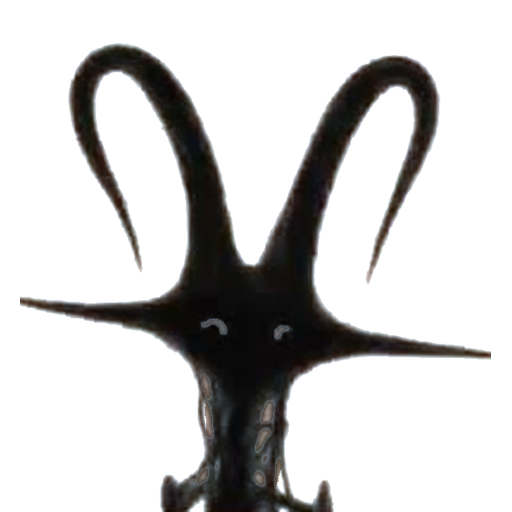
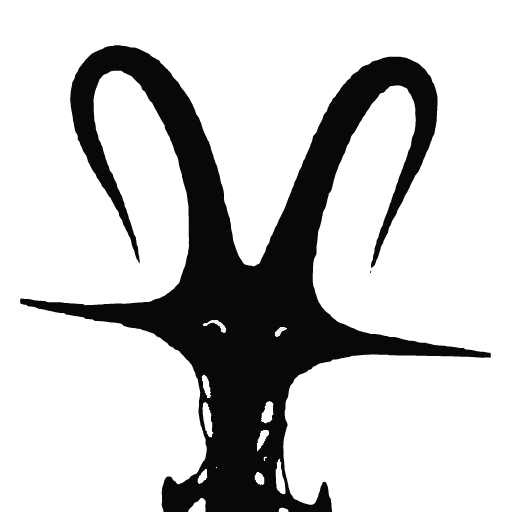
Despair sprite (U67wZoy-1fE): crisp re-trace of the video silhouette (was a soft 3x upscale), tools/art_s5_despair.py

diff --git a/tools/art_s5_despair.py b/tools/art_s5_despair.py
@@ -1,0 +1,41 @@
+"""cm_s5 2026-11-27: crisp re-trace of the Despair silhouette (U67wZoy-1fE).
+
+No web copy of the creature exists. The previous cut (video frame maxres1.jpg, 200 px square, 3x Lanczos) was soft.
+This re-traces it: the alpha is upsampled 4x, smoothed, thresholded to a hard silhouette and box-downsampled for a
+1-2 px anti-aliased edge (no fading). The white eye rings are re-traced the same way. Output 512 px, same framing.
+Usage: python3 tools/art_s5_despair.py [src.png] [out.png]
+"""
+import sys
+from PIL import Image, ImageFilter
+src = sys.argv[1] if len(sys.argv) > 1 else 'assets/modes/U67wZoy-1fE/despair.png'
+out = sys.argv[2] if len(sys.argv) > 2 else src
+im = Image.open(src).convert('RGBA')
+S = 4
+a = im.getchannel('A')
+lum = im.convert('L')
+# eye mask: bright pixels inside the body
+px_l, px_a = lum.load(), a.load()
+EYES = (180, 295, 320, 350)  # the two eye arcs sit in this box (x0, y0, x1, y1) of the 512 px cut
+eye = Image.new('L', im.size, 0); pe = eye.load()
+hole = a.copy(); ph = hole.load()
+for y in range(im.height):
+    for x in range(im.width):
+        if px_l[x, y] > 70 and px_a[x, y] > 40:
+            if EYES[0] <= x <= EYES[2] and EYES[1] <= y <= EYES[3]:
+                pe[x, y] = 255
+            else:  # light gaps between the tendrils are board showing through: transparent, not white
+                ph[x, y] = 0
+a = hole
+
+def retrace(m, blur, thr):
+    big = m.resize((m.width * S, m.height * S), Image.BICUBIC).filter(ImageFilter.GaussianBlur(blur))
+    big = big.point(lambda v: 255 if v >= thr else 0)
+    return big.resize(m.size, Image.BOX)
+
+A = retrace(a, 1.4, 128)
+E = retrace(eye, 1.2, 100)
+rgb = Image.new('RGB', im.size, (8, 8, 10))
+rgb.paste((240, 240, 236), (0, 0), E)
+res = rgb.convert('RGBA'); res.putalpha(A)
+res.save(out, optimize=True)
+print('wrote', out, res.getchannel('A').getbbox())

diff --git a/research/BLURRY_SPRITES.md b/research/BLURRY_SPRITES.md
@@ -369,4 +369,4 @@ have no DOM board (3D/canvas: not covered). Results: `research/ref/m-art/art_swe
 
 ### m-art3 leftovers pass (2026-11-26 ~3:30 PM ET)
 - [x] 512 px re-traces (tools/m_art3_vec.py): `7lEglazTlo8/target_red` (192), `fRZmYTwLE54/magnet` (197), `RcpgDq_LNlk/knook_w`, `j5na3lPhw7g/fish_w`, `goDcorwxJnA/minion_w` (160). art_sweep on the 5 modes: 0 flags on these (pawn_b 'soft' = flat silhouette, fine).
-- Left as is (tiles/portraits by design): Cv28-UoZseg/stone (145 px stone tile), dKZfe4uB_RM/face_w (128 px framed portrait tile), p6W3yDU-v88/button, y5MBC8OCYlI/hill. vzNwF2BH8jg/impostor_w DONE (s5-art: Among Us Wiki Red_old_design.png = the same crewmate, re-traced 512 px, tools/art_s5_impostor.py). Still open: m3-art items (4XV3SBMQgXE mask, Kzt9ItpGtYg hero, WXcmWG7Eczs Q/Iq), bust portraits (scp4975, oldman, reptile, despair).
+- Left as is (tiles/portraits by design): Cv28-UoZseg/stone (145 px stone tile), dKZfe4uB_RM/face_w (128 px framed portrait tile), p6W3yDU-v88/button, y5MBC8OCYlI/hill. vzNwF2BH8jg/impostor_w DONE (s5-art: Among Us Wiki Red_old_design.png = the same crewmate, re-traced 512 px, tools/art_s5_impostor.py). Still open: m3-art items (4XV3SBMQgXE mask, Kzt9ItpGtYg hero, WXcmWG7Eczs Q/Iq), bust portraits (scp4975, oldman, reptile, despair). despair DONE (cm_s5 2026-11-27: crisp re-trace, tools/art_s5_despair.py).
